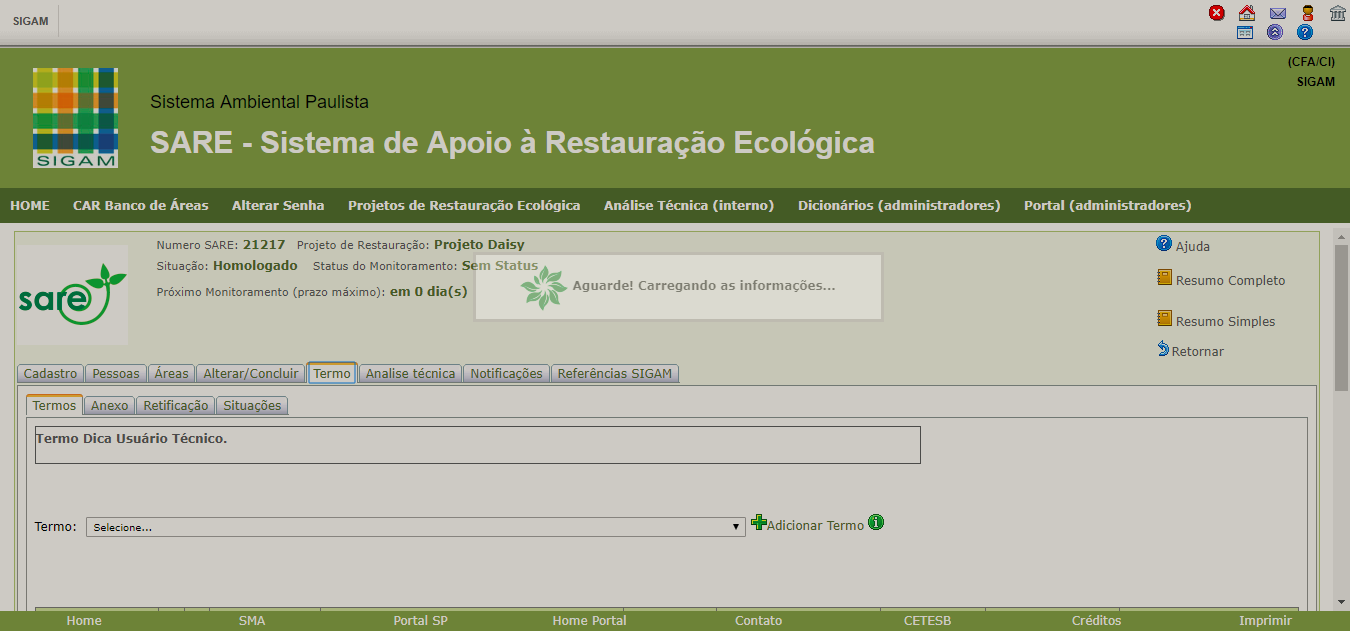
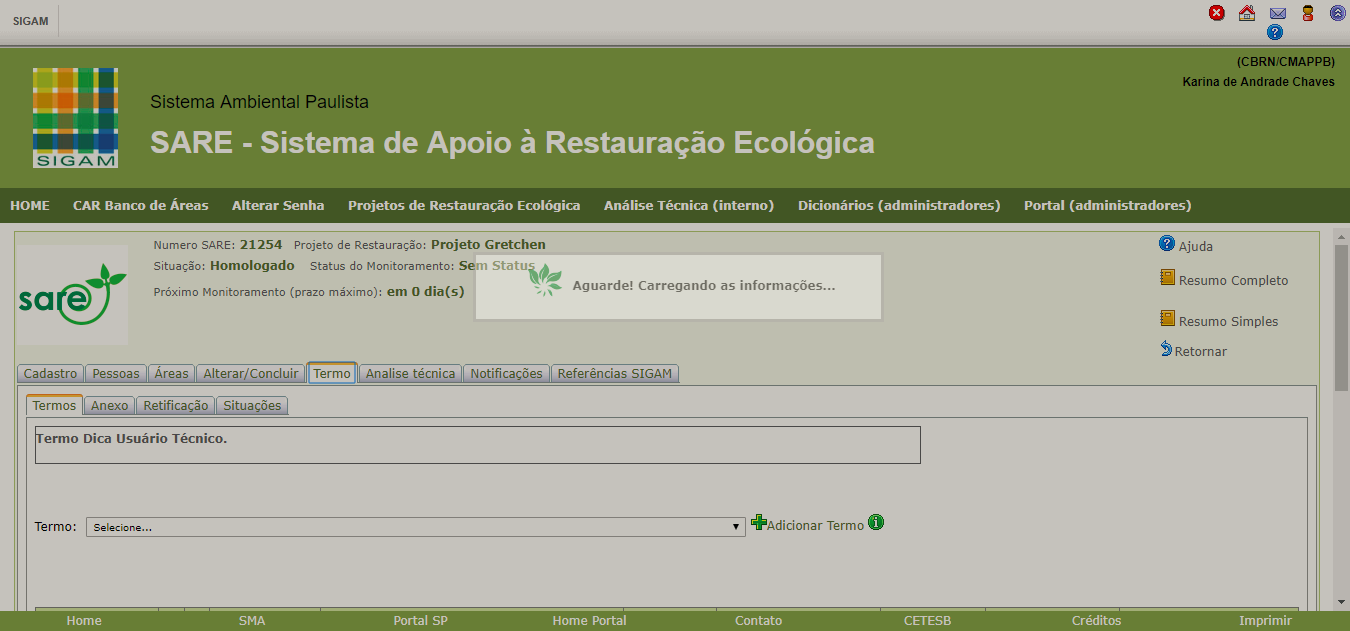
MassaSubida20

diff --git a/features/step_definitions/GeraTermo.rb b/features/step_definitions/GeraTermo.rb
@@ -3,7 +3,7 @@ link = "http://homologacao-sigam.eastus2.cloudapp.azure.com/sigam-adequacao-test
 #link = "http://homologacao-sigam.eastus2.cloudapp.azure.com/sigam-homologacao1"
 #link = "http://homologacao-sigam.eastus2.cloudapp.azure.com/sma-est-car_test/"
 
-usuario = "gtiadm"
+usuario = "karinaac"
 Dado("que esteja tela de cadastro do Sare") do
    visit(link)
    RealizaLogin.acesso(usuario)
